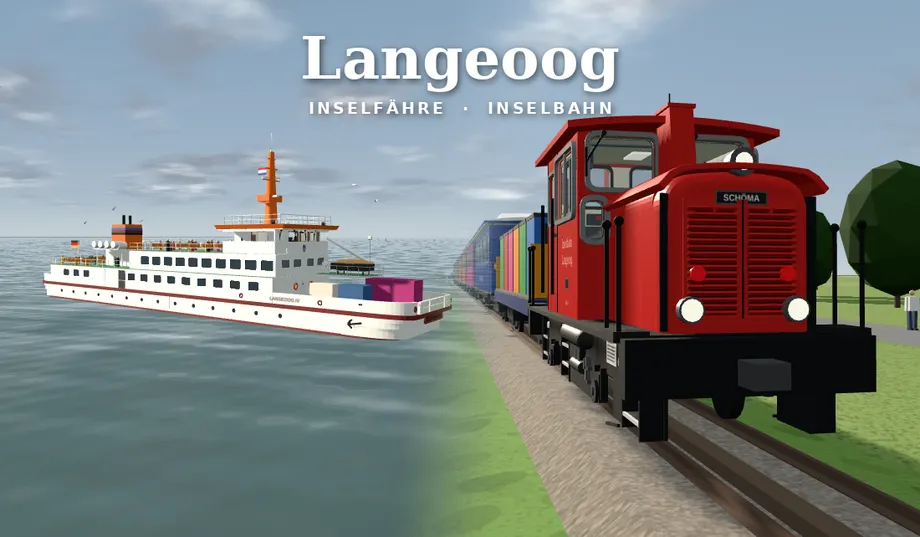
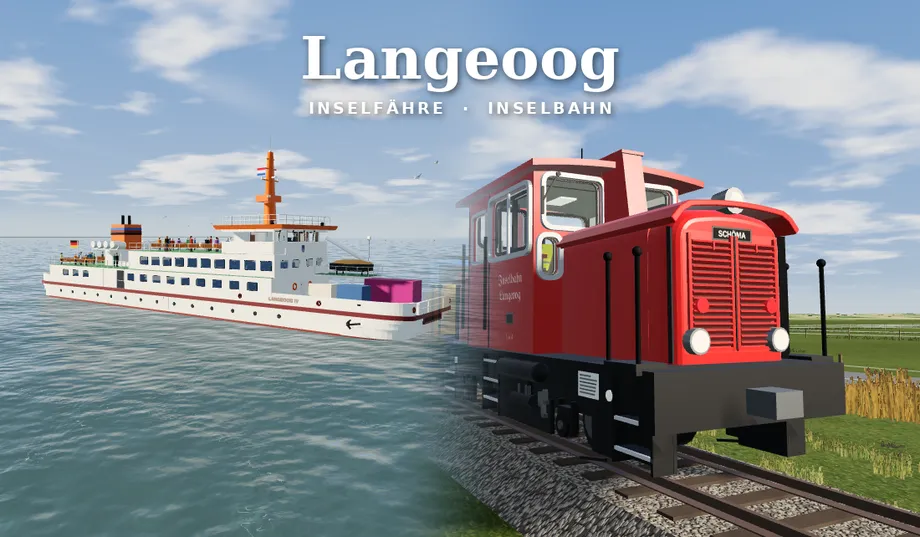
Add files via upload

diff --git a/index.html b/index.html
@@ -862,6 +862,26 @@ button {
 .grey {
   filter: grayscale(0.7) contrast(1.05);
 }
+.imp {
+  margin: 10px 0 2px;
+  font-size: 12px;
+  color: var(--muted);
+  text-align: center;
+}
+.imp summary {
+  cursor: pointer;
+  display: inline-block;
+  padding: 6px 10px;
+  text-decoration: underline;
+  text-underline-offset: 3px;
+}
+.imp p {
+  margin: 6px 0;
+  line-height: 1.5;
+}
+.imp a {
+  color: inherit;
+}
 @media (prefers-reduced-motion: reduce) {
   .btn.ready {
     animation: none;
@@ -1765,12 +1785,30 @@ input {
       </ul>
       <button class="btn primary" id="startBtn">Leinen los</button>
       <p class="ver">
-        Version 12.11.2026 · Schwellen quer, Insel flach, klarere Lokscheiben, Instrumente mit Skalen und Zahlen
+        Version 12.11.2026 b · Brücke ohne alte Türen hinten, neues Titelbild, Impressum
       </p>
       <p class="ver">
         Bahngeräusche: Aufnahmen von www.hoerspielbox.de · Funkrauschen: freesound_community (Pixabay) ·
         Musik: „Golden Sea“ von good_b_music (Pixabay)
       </p>
+      <details class="imp">
+        <summary>Impressum</summary>
+        <p>
+          Angaben gemäß § 5 DDG<br />
+          Christian Stadler<br />
+          c/o gpaNRW<br />
+          Shamrockring 1<br />
+          44623 Herne
+        </p>
+        <p>
+          E-Mail: <a href="mailto:christian-stadler@gmx.net">christian-stadler@gmx.net</a><br />
+          Telefon: <a href="tel:+491755608597">0175 5608597</a>
+        </p>
+        <p>
+          Inselfähre Langeoog ist ein privates, nicht kommerzielles Spiel. Es steht in keiner Verbindung zur
+          Schifffahrt und Inselbahn der Gemeinde Langeoog.
+        </p>
+      </details>
     </div>
   </div>
 </div>
@@ -15801,9 +15839,6 @@ float fbm3(vec2 p){float v=0.,a=.53;for(int i=0;i<3;i++){v+=a*noise(p);p*=2.03;a
       [14.86, 12.52, 10.2].forEach((s) => ib(0.2, FH, 0.22, WOODL, sd * (HW - 0.13), FY0, s, 0.8));
       inPanes.push(pane(2.1, FH, sd * HW, FYC, 11.36, Math.PI / 2));
       ib(0.1, FH, 2.1, BEIGE, sd * (HW - 0.04), FY0, 9.1);
-      ib(0.08, 2.05, 0.95, DOORW, sd * (HW - 0.12), 7.45, 9.15);
-      ib(0.06, 0.5, 0.4, std(0x1a2731, { roughness: 0.2 }), sd * (HW - 0.17), 8.9, 9.15);
-      ib(0.12, 0.04, 0.18, std(0x9aa0a3, { metalness: 0.8, roughness: 0.3 }), sd * (HW - 0.2), 8.45, 9.45);
     });
     // Rückwand mit Tür und zwei Fenstern
     ib(IW, BY0 - 7.42, 0.1, BEIGE, 0, 7.42, 8.02);
@@ -16261,12 +16296,6 @@ float fbm3(vec2 p){float v=0.,a=.53;for(int i=0;i<3;i++){v+=a*noise(p);p*=2.03;a
         m.renderOrder = 5;
         sb(gw + 0.1, 0.05, 0.18, W, X((xa + xb) / 2), y0 - 0.02, 14.9);
       }
-      // Tür mit Bullauge an der Außenwand des Steuerhauses
-      extOnly.push(sb(0.08, 2.05, 0.95, W, X(HW + 0.06), 7.45, 9.15));
-      const por = mesh(new T.CylinderGeometry(0.17, 0.17, 0.06, 20), GLS, tilt, X(HW + 0.11), 8.95, -9.15);
-      por.rotation.z = Math.PI / 2;
-      extOnly.push(por);
-      extOnly.push(sb(0.06, 0.04, 0.2, STEEL, X(HW + 0.12), 8.45, 9.45));
     });
 
     // Brückendach, Mast und alles darüber sowie die Decke innen um BD absenken
